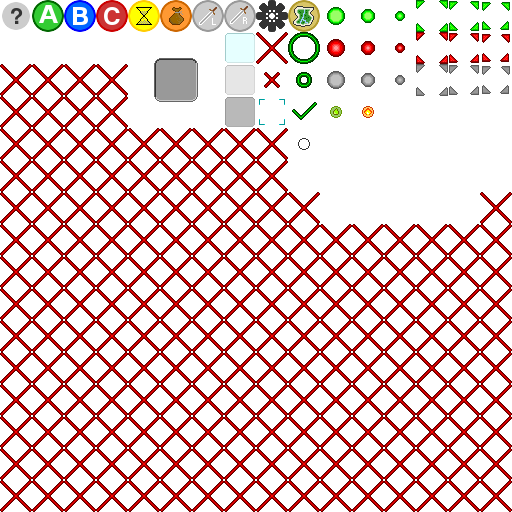
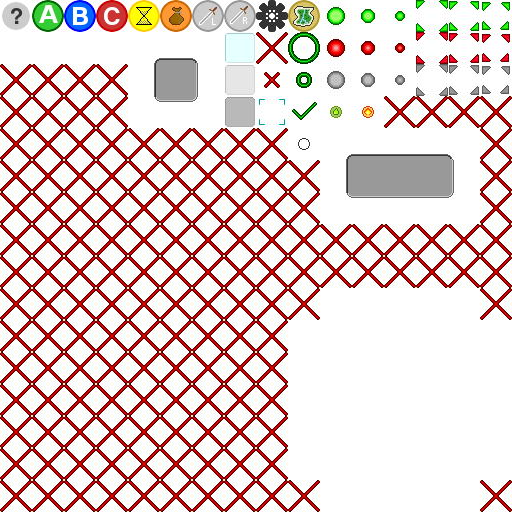
Adiciona dois botões (sem texto) no menu principal: Iniciar Jogo e Sair

diff --git a/core/src/com/kallyous/nopeisland/GraphicComponent.java b/core/src/com/kallyous/nopeisland/GraphicComponent.java
@@ -19,8 +19,11 @@ public class GraphicComponent {
 
 // ========================= DATA BEGIN ========================= //
 
+  // Sprite holding all crazy transformation stuff
+  public Sprite sprite;
+
   // Entity owning this instance of GraphicComponent
-  Entity entity;
+  public Entity entity;
 
   // Texture to be split and used
   Texture texture;
@@ -34,8 +37,6 @@ public class GraphicComponent {
   // Index of the current texture region to be rendered at runtime
   private int region_index;
 
-  // Sprite holding all crazy transformation stuff
-  private Sprite sprite;
 
 // ========================= DATA END ========================= //
 
@@ -57,6 +58,33 @@ public class GraphicComponent {
     this.texture = NopeIslandGame.uiTexture;
     setupDefaultGraphics();
     setRegionIndex(region_index);
+  }
+
+  // Makes a graphic component from an arbitrary region of a given texture
+  GraphicComponent(
+      Entity entity, Texture texture,
+      int region_x, int region_y, int width, int height) {
+
+    this.entity = entity;
+    this.texture = texture;
+
+    texture_region = new TextureRegion[1];
+
+    texture_region[0] = new TextureRegion(
+        this.texture, region_x, region_y,
+        width, height);
+
+    region_index = 0;
+
+    sprite = new Sprite(texture_region[region_index]);
+
+    System.out.println(TAG + ": " + entity.getName() +
+      " created with custom graphics and a single region.");
+
+    // TODO: 25/12/18 Reavaliar essa definição do tamanho da entidade baseada no tamanho da imagem.
+    this.entity.setWidth(width);
+    this.entity.setHeight(height);
+
   }
 
   // Default graphics loads the '?' symbol from the GUI texture

diff --git a/core/src/com/kallyous/nopeisland/UserInterface.java b/core/src/com/kallyous/nopeisland/UserInterface.java
@@ -28,6 +28,9 @@ public class UserInterface {
   // Screen Dimensions
   protected static float screen_width, screen_height;
 
+  // UiElement's margin (in pixels)
+  protected static int margin;
+
   // Array holding the UI elements
   public Vector<UiElement> elements;
 
@@ -44,6 +47,9 @@ public class UserInterface {
     // Screen Dimensions Initialization
     screen_width = width;
     screen_height = height;
+
+    // Define the margin
+    margin = 16;
 
     // Elements Array Initialization
     elements = new Vector<UiElement>();
@@ -110,6 +116,19 @@ class UiElement extends Entity {
   UiElement(String name, int region_index) {
     super(name);
     setupComponents(region_index);
+  }
+
+  UiElement(String name, Texture texture, int region_x, int region_y,
+            int width, int height) {
+    super(name);
+
+    graphic_comp = new GraphicComponent(
+        this, texture,
+        region_x, region_y, width, height
+    );
+
+    command_comp = new CommandComponent(this);
+
   }
 
   private void setupComponents(int region_index) {

diff --git a/core/src/com/kallyous/nopeisland/MainMenuInterface.java b/core/src/com/kallyous/nopeisland/MainMenuInterface.java
@@ -6,6 +6,36 @@ public class MainMenuInterface extends UserInterface {
 
   MainMenuInterface(float width, float height) {
     super(width, height);
+
+
+    // Start/Continue Game button
+    UiElement start_btn = new UiElement(
+        "start_continue_btn", NopeIslandGame.uiTexture,
+        346, 154, 108, 44);
+
+    start_btn.setPosition(
+        (screen_width - start_btn.getWidth()) / 2,
+        (screen_height/2) + (start_btn.getHeight() + margin)
+        );
+
+    start_btn.graphic_comp.sprite.setColor(0.5f, 0.5f, 1.0f, 1f);
+
+
+    // Exit Game button
+    UiElement exit_game_btn = new UiElement(
+        "exit_game_btn", NopeIslandGame.uiTexture,
+        346, 154, 108, 44);
+
+    exit_game_btn.setPosition(
+        (screen_width - start_btn.getWidth()) / 2,
+        (screen_height/2) - margin
+    );
+
+    exit_game_btn.graphic_comp.sprite.setColor(1f, 0.5f, 0.5f, 1f);
+
+
+    elements.add(start_btn);
+    elements.add(exit_game_btn);
   }
 
 

diff --git a/core/src/com/kallyous/nopeisland/Entity.java b/core/src/com/kallyous/nopeisland/Entity.java
@@ -59,7 +59,7 @@ abstract public class Entity implements InputProcessor {
   // Player Controllable (default is false)
   private boolean player_controllable = false;
 
-  // Facing direction
+  // Facing direction (default bottom)
   private int facing_direction = FACING_BOT;
 
   /* There may be several different types of command interpreters, so we

diff --git a/core/src/com/kallyous/nopeisland/GameState.java b/core/src/com/kallyous/nopeisland/GameState.java
@@ -8,7 +8,7 @@ import com.badlogic.gdx.graphics.g2d.SpriteBatch;
 
 
 
-/** ========================= GAME STATES - FSM ========================= **/
+/** ======================== GAME STATES SUPERCLASS - FSM ======================== **/
 
 abstract public class GameState {
 

diff --git a/core/src/com/kallyous/nopeisland/NopeIslandGame.java b/core/src/com/kallyous/nopeisland/NopeIslandGame.java
@@ -106,7 +106,7 @@ public class NopeIslandGame extends ApplicationAdapter {
     running_state.setScreenbatch(guiBatch);
 
     // Põe jogo em seu estado inicial.
-    running_state.enter(running_state);
+    main_menu_state.enter(main_menu_state);
 
   }
 
